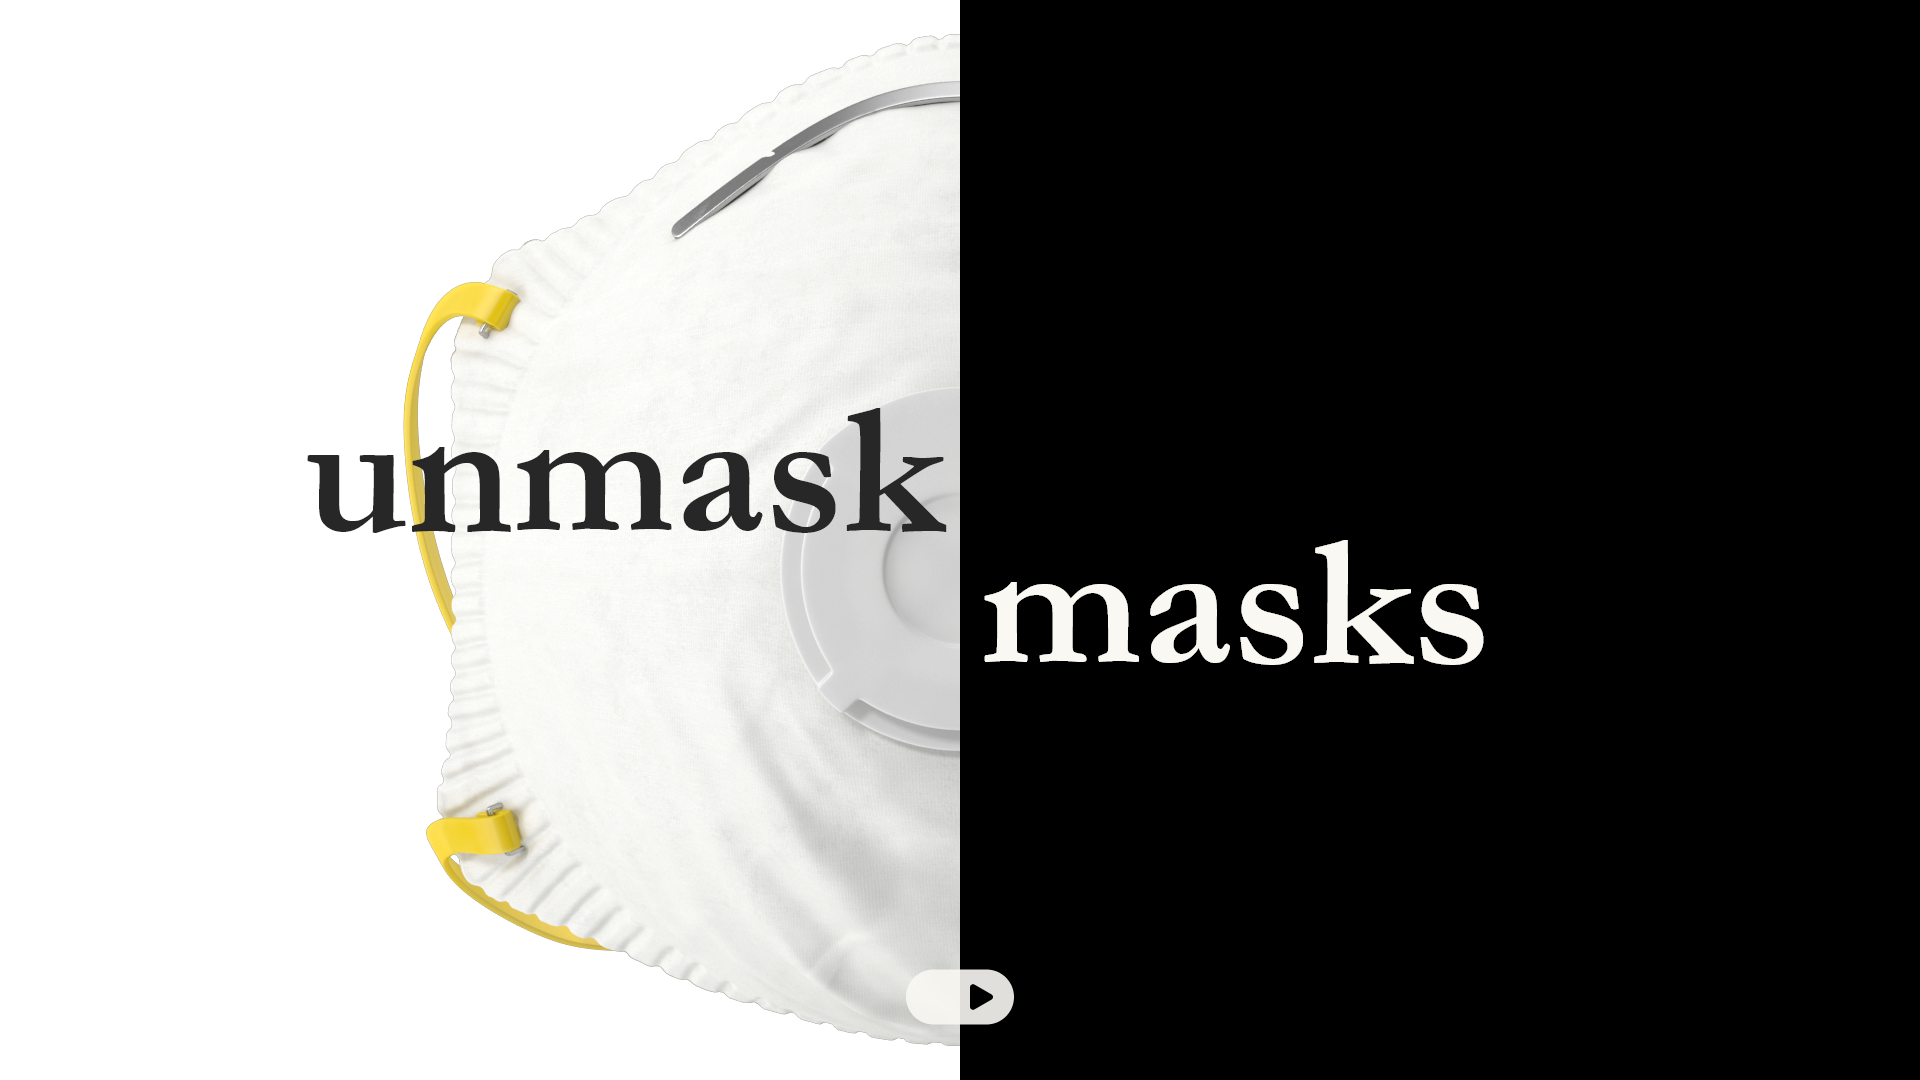
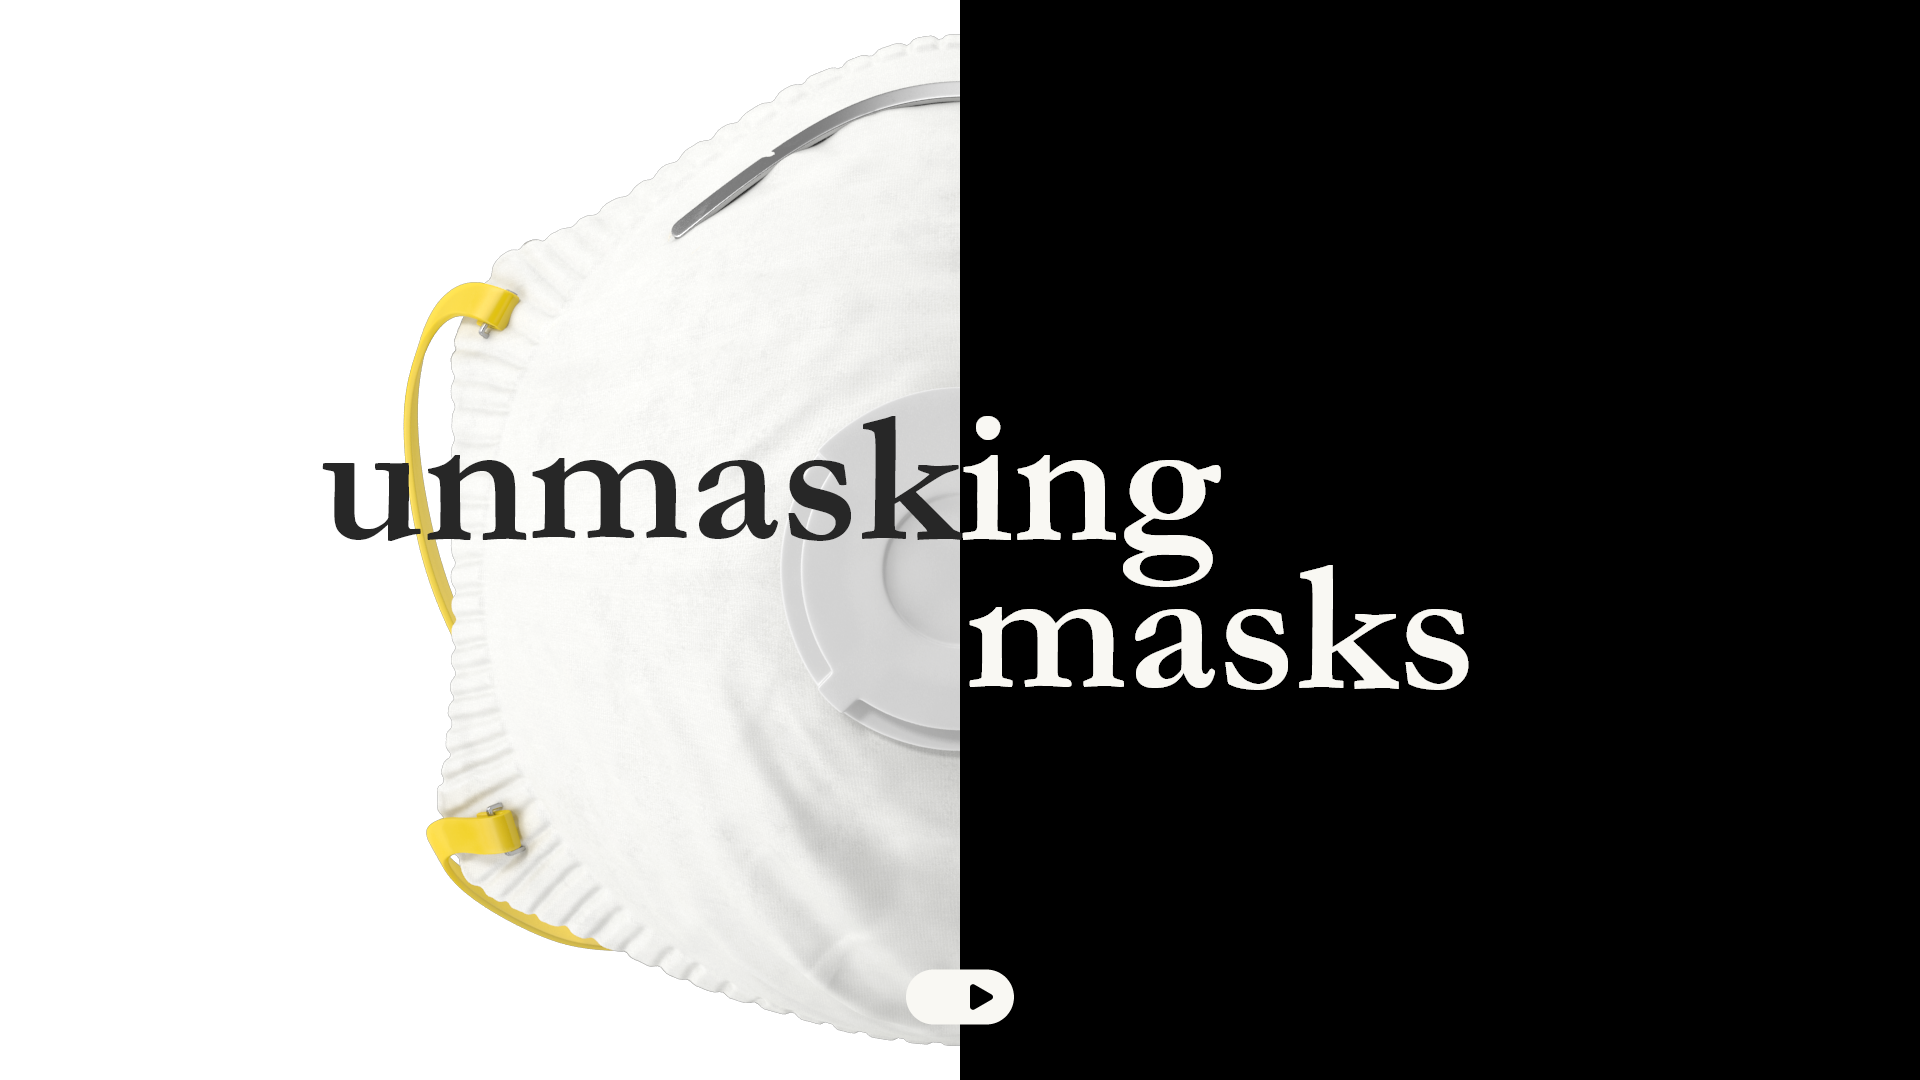
updated title

Changed region(s): [[0.1562, 0.3667, 0.7812, 0.6417], [0.5, 0.8861, 0.5312, 0.9472]]

diff --git a/README.md b/README.md
@@ -1,4 +1,6 @@
-Unmask Masks  
+Unmasking Masks  
+#### Uncovering global attitudes towards masks
 -------------
-###### Zui Chen MS Data Visualization Thesis '2020 
+##### Parsons School of Design MS Data Visualization Thesis '2020
+###### Zui Chen 
 ![](./preview.png)
